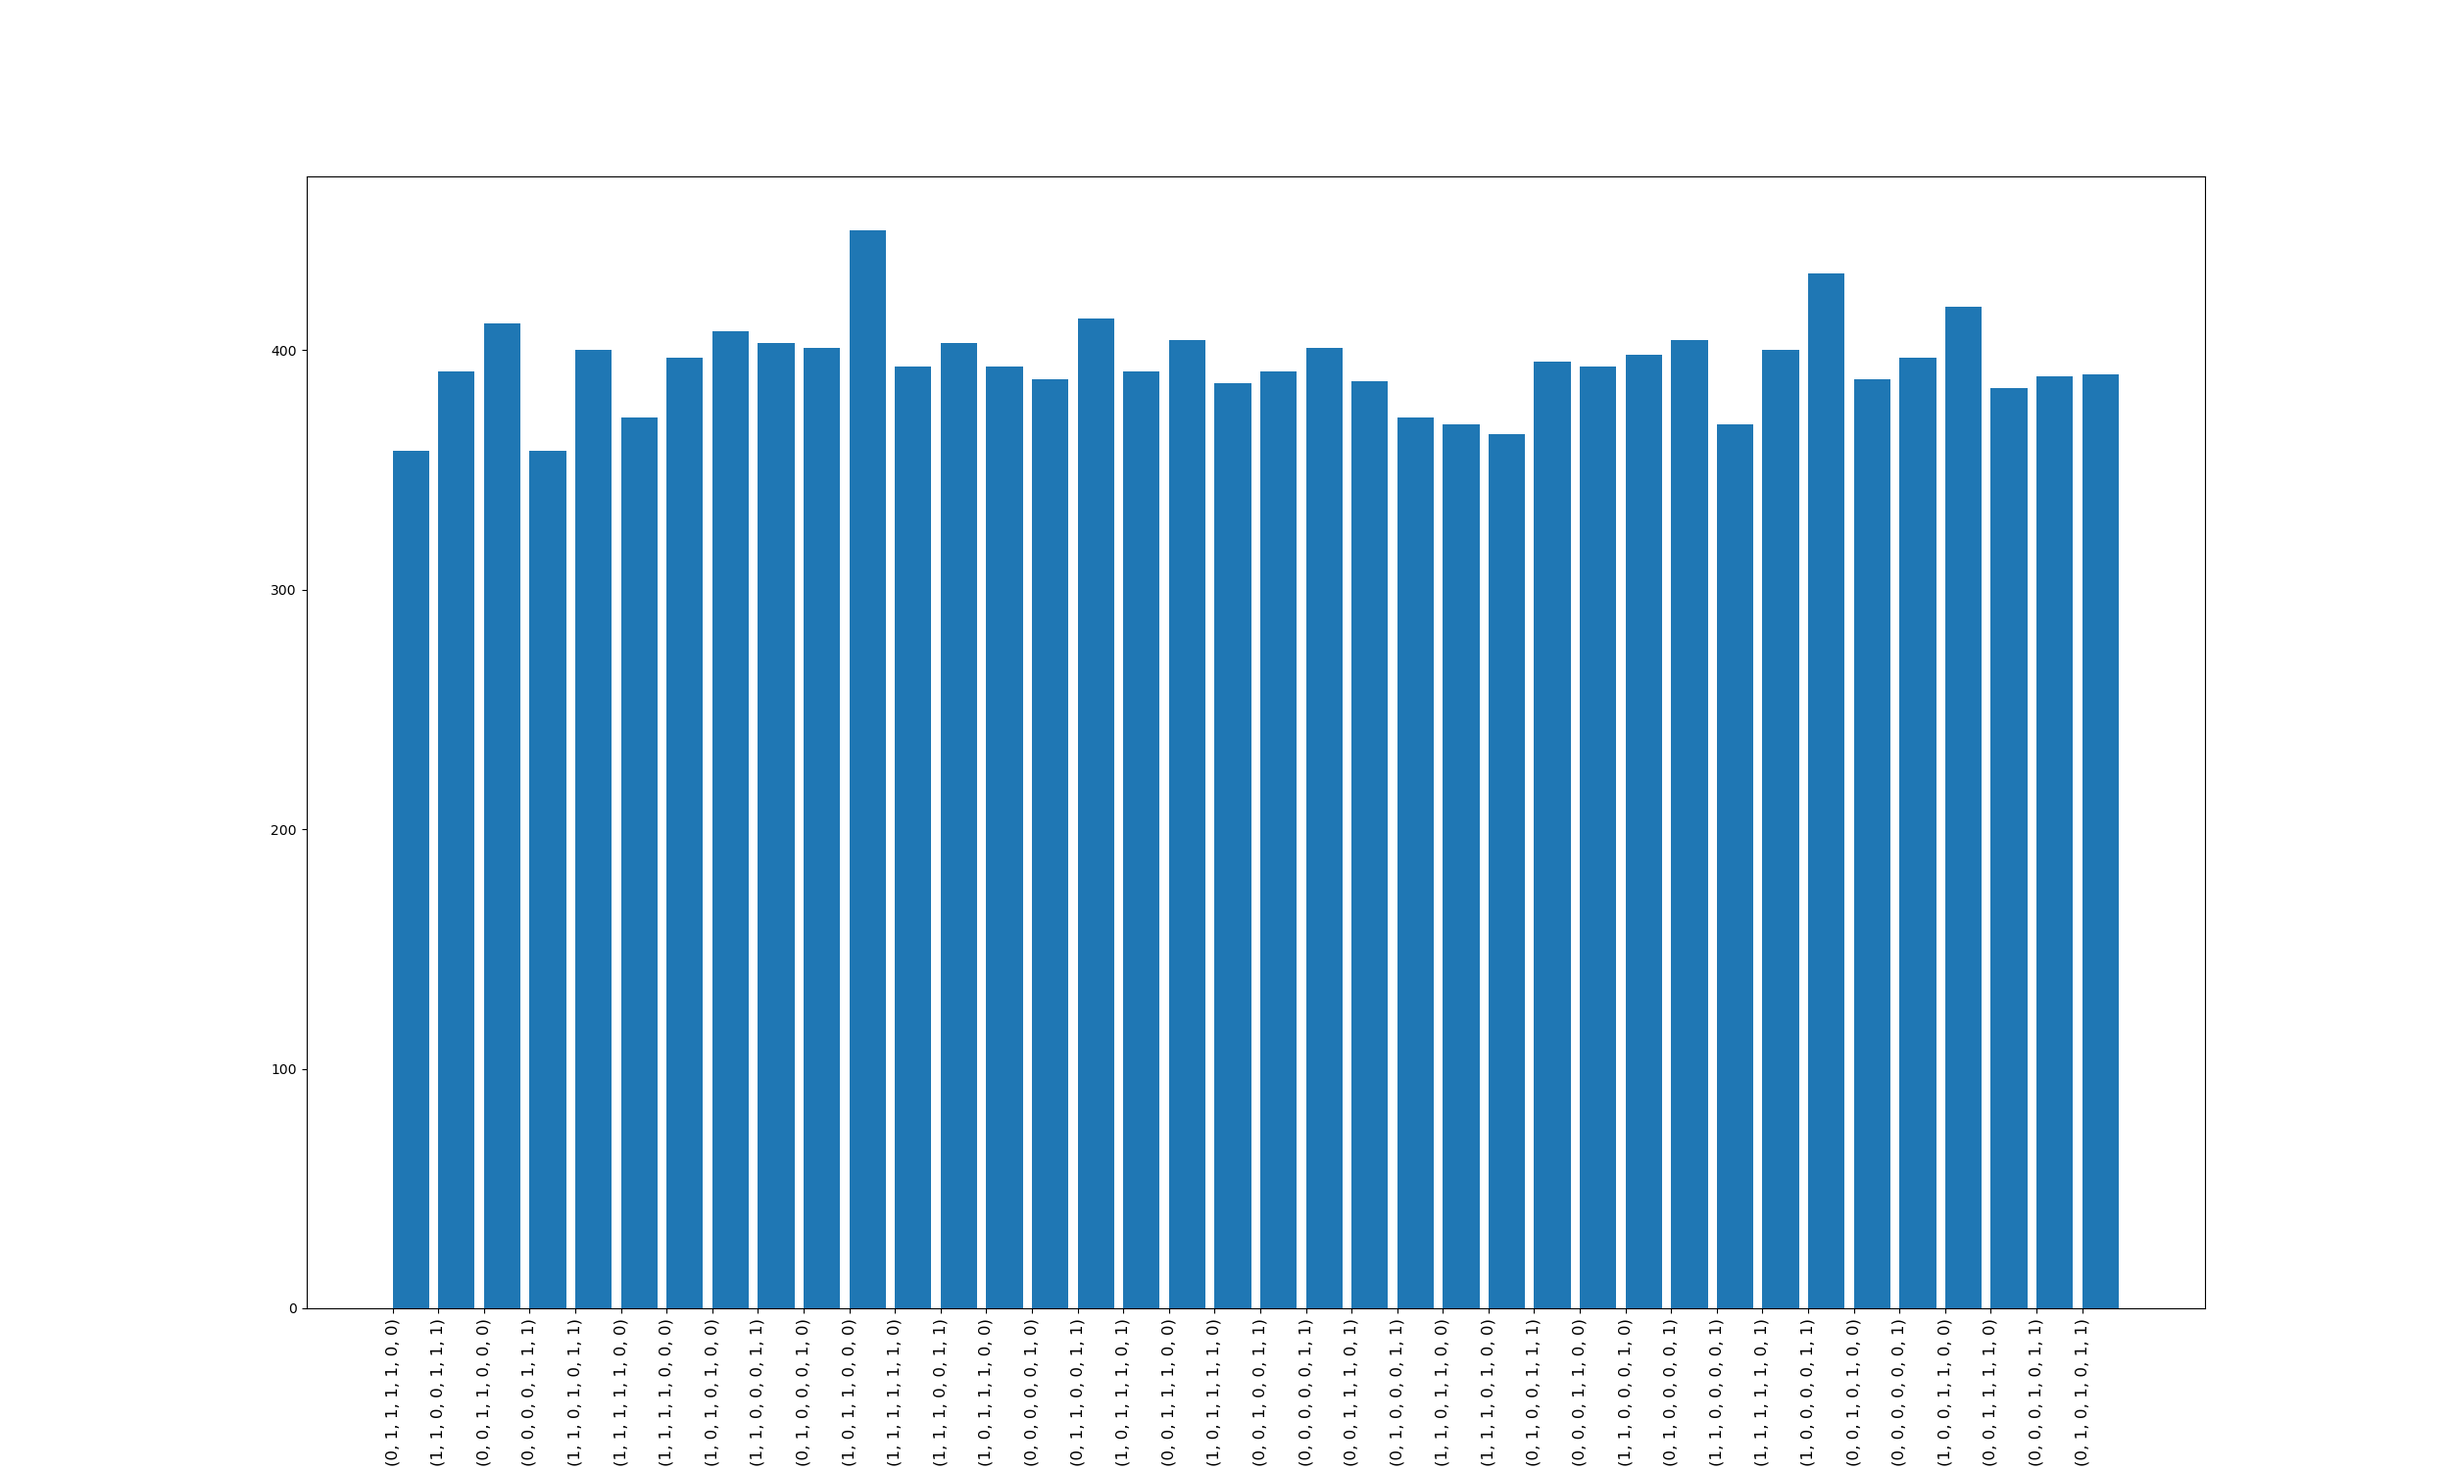
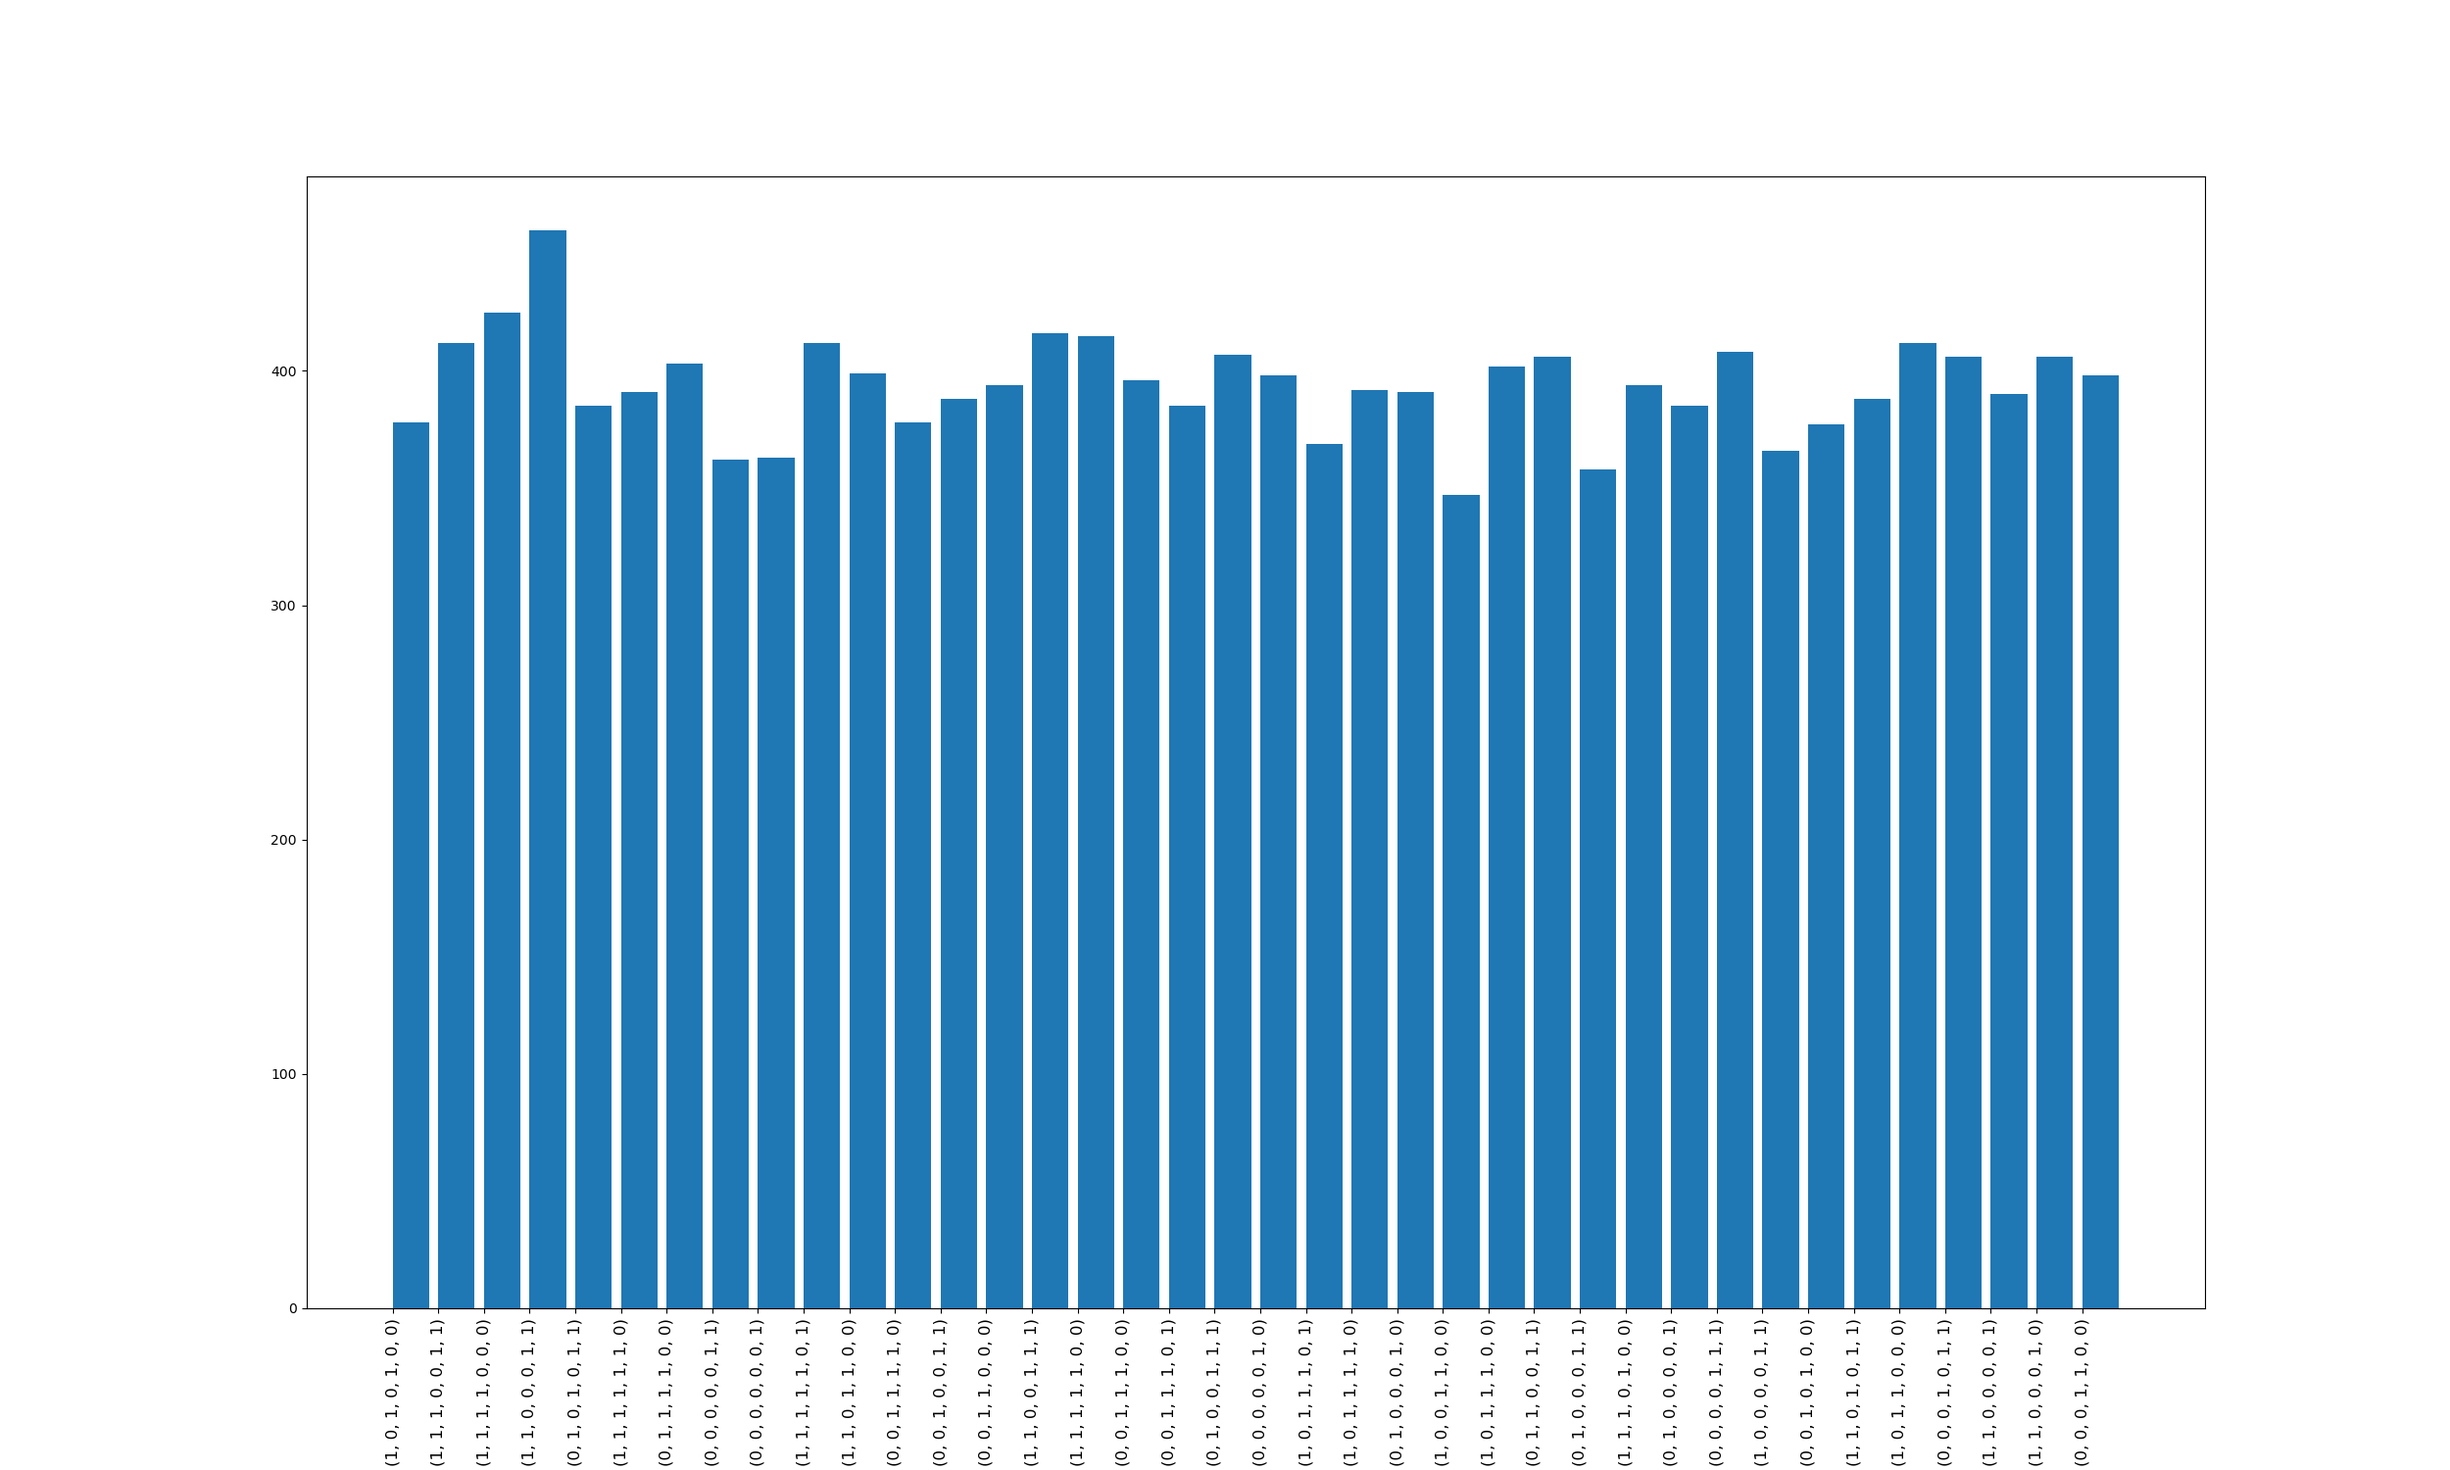
Correcting Task2-4 and plots_t4

Changed region(s): [[0.156, 0.1533, 0.8112, 0.3373], [0.8112, 0.2453, 0.8424, 0.276], [0.156, 0.276, 0.1872, 0.3067]]

diff --git a/Lab_2/Task4.py b/Lab_2/Task4.py
@@ -147,7 +147,7 @@ potential_corrupted_ciphers = [
 ]
 
 
-def run_10k_times(message):
+def run_15k_times(message):
     eavesdropper_channel_error_counters = {}
 
     for i in range(15000):
@@ -171,7 +171,7 @@ def compute_empirical_distribution(eavesdropper_channel_error_counters):
     empirical_distribution = {}
     for error in eavesdropper_channel_error_counters:
         empirical_distribution[error] = (
-            eavesdropper_channel_error_counters[error] / 10000
+            eavesdropper_channel_error_counters[error] / 15000
         )
     return empirical_distribution
 
@@ -232,7 +232,7 @@ def main():
         print("Message:", message)
         print("Starting the 15k iterations w/corruption...")
         print("-------------------------------------------")
-        plot_corrupted_ciphers(run_10k_times(message), message)
+        plot_corrupted_ciphers(run_15k_times(message), message)
         print("-------------------------------------------")
 
 

diff --git a/Lab_2/Task5.py b/Lab_2/Task5.py
@@ -7,15 +7,15 @@ import random
 from matplotlib import pyplot
 
 #eavsdropper channel corruption example (0 < epsilon < delta < 1/2)
-#epsilon = 0.1
-#delta = 0.2
+epsilon = 0.1
+delta = 0.2
 
 #legitimate channel corruption example (0 < delta < epsilon < 1/2)
-epsilon = 0.2
-delta = 0.1
+#epsilon = 0.2
+#delta = 0.1
 
 #define the number of trials
-number_trials = 10000
+number_trials = 100000
 
 def BSC(epsilon, delta, m):
     if (abs((epsilon - 0.5))<abs(delta - 0.5)):

diff --git a/Lab_2/Task2.py b/Lab_2/Task2.py
@@ -95,7 +95,7 @@ def uniform_binning_encoder(m):
 
 
 def main():
-    m = [0, 0, 0]
+    m = [1, 0, 0]
     print("The input is", m)
     print("The random x is", uniform_binning_encoder(m))
 
